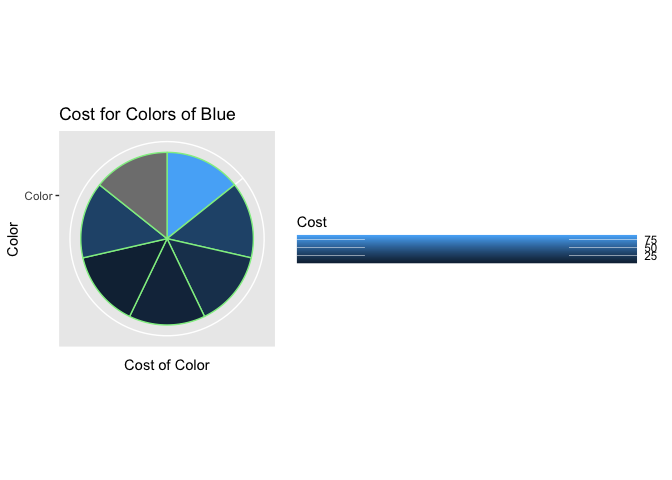
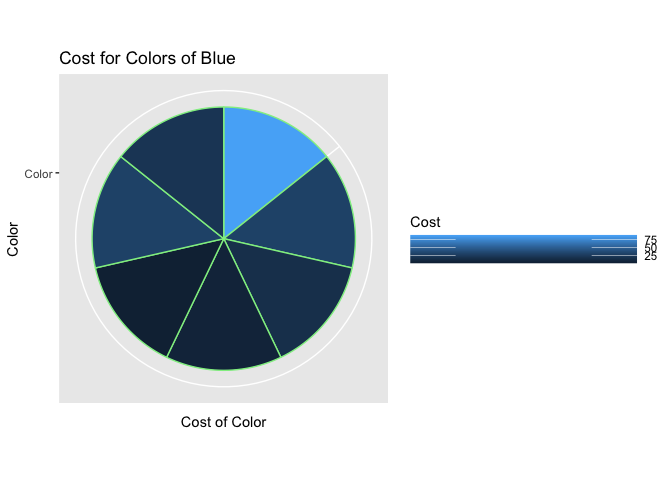
Fixed .csv error

diff --git a/hmk/hmk_06/hmk_06.md b/hmk/hmk_06/hmk_06.md
@@ -11,7 +11,7 @@ library(tidyverse)
 Creating data frame and assigning it to object `bad_plot_df`
 
 ``` r
-bad_plot_df <- read_csv("badplot.csv", 
+bad_plot_df <- read_csv("badplot_v2.csv", 
                         show_col_types = FALSE, 
                         col_names = c("Color", "Cost") 
 )
@@ -32,7 +32,7 @@ ggplot(bad_plot_df, aes(x="Color", y="Cost", fill=Cost)) +
     coord_polar("y", start=0) +
   xlab(label = "Color") + ylab(label = "Cost of Color") +
   ggtitle(label = "Cost for Colors of Blue") +
-    theme(legend.key.width = unit(9, 'cm')) +
+    theme(legend.key.width = unit(6, 'cm')) +
   theme(legend.key.height = unit(0.15, 'cm'))
 ```
 
